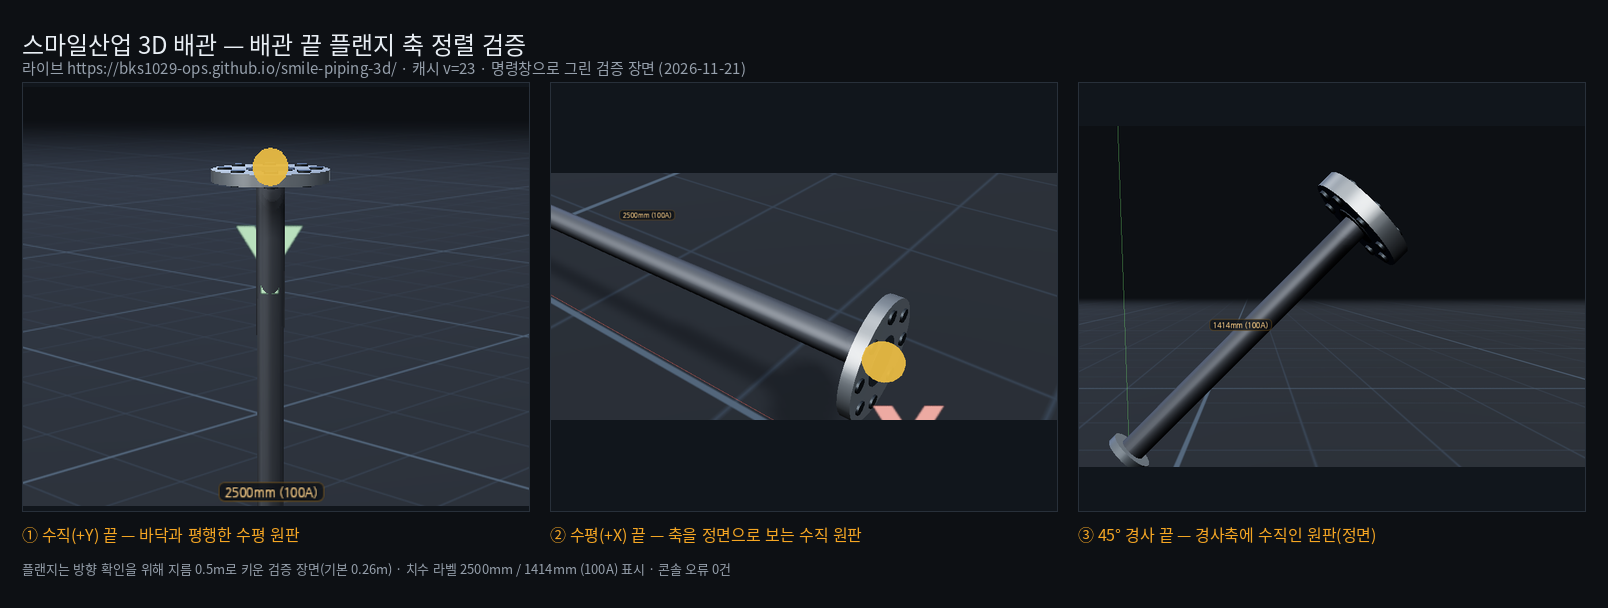
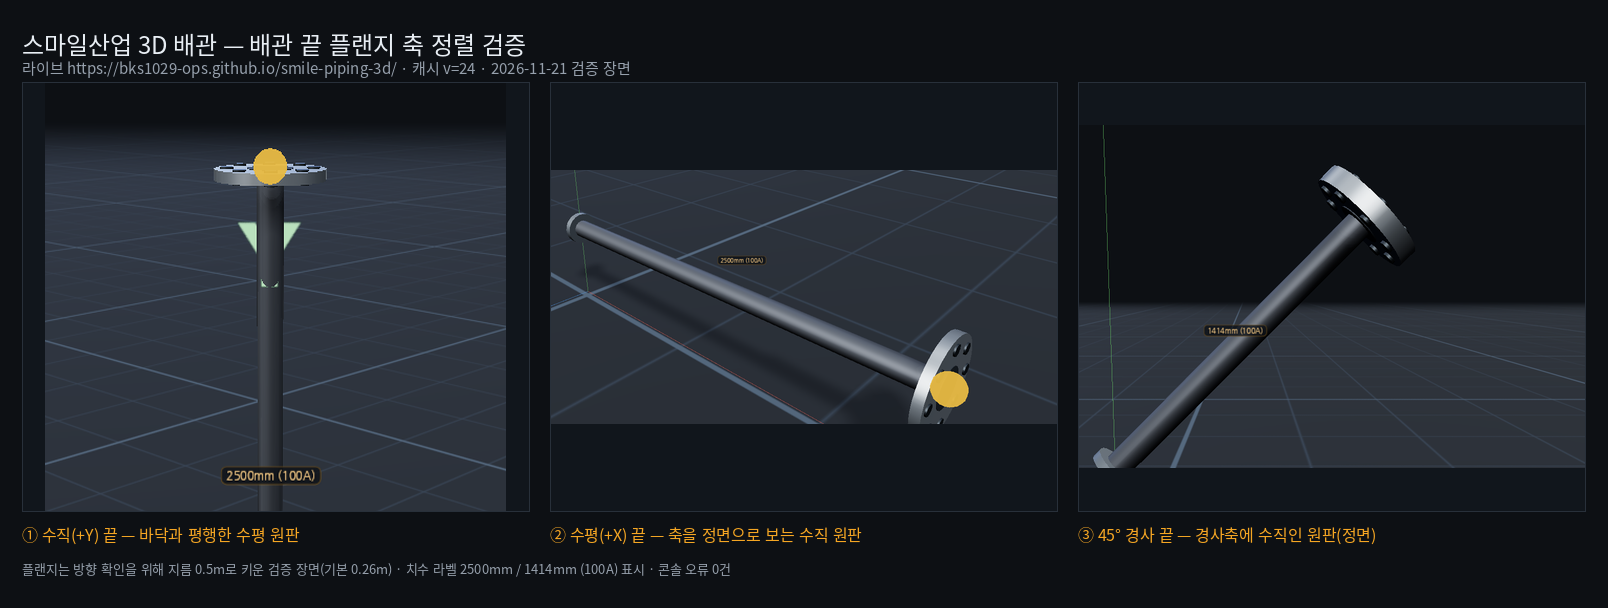
검증 스크린샷 preview-flange-fix.png 추가 — 수직·수평·45° 배관 끝 플랜지가 배관 축에 수직으로 맞물린 모습(치수 라벨 포함)

diff --git a/README.md b/README.md
@@ -85,6 +85,8 @@
    45° 경사관 끝은 경사축에 수직인 원판으로 배관 중심축에 딱 맞물립니다(예전에는 Y축 회전만 받아 90° 비뚤어졌습니다).
    Fusion 360 `.py`에도 같은 정렬 행렬(`rmat`)이 넘어갑니다.
 
+![배관 끝 플랜지 축 정렬 검증 — 수직(+Y)·수평(+X)·45° 경사](preview-flange-fix.png)
+
 ## 파일
 
 ```
